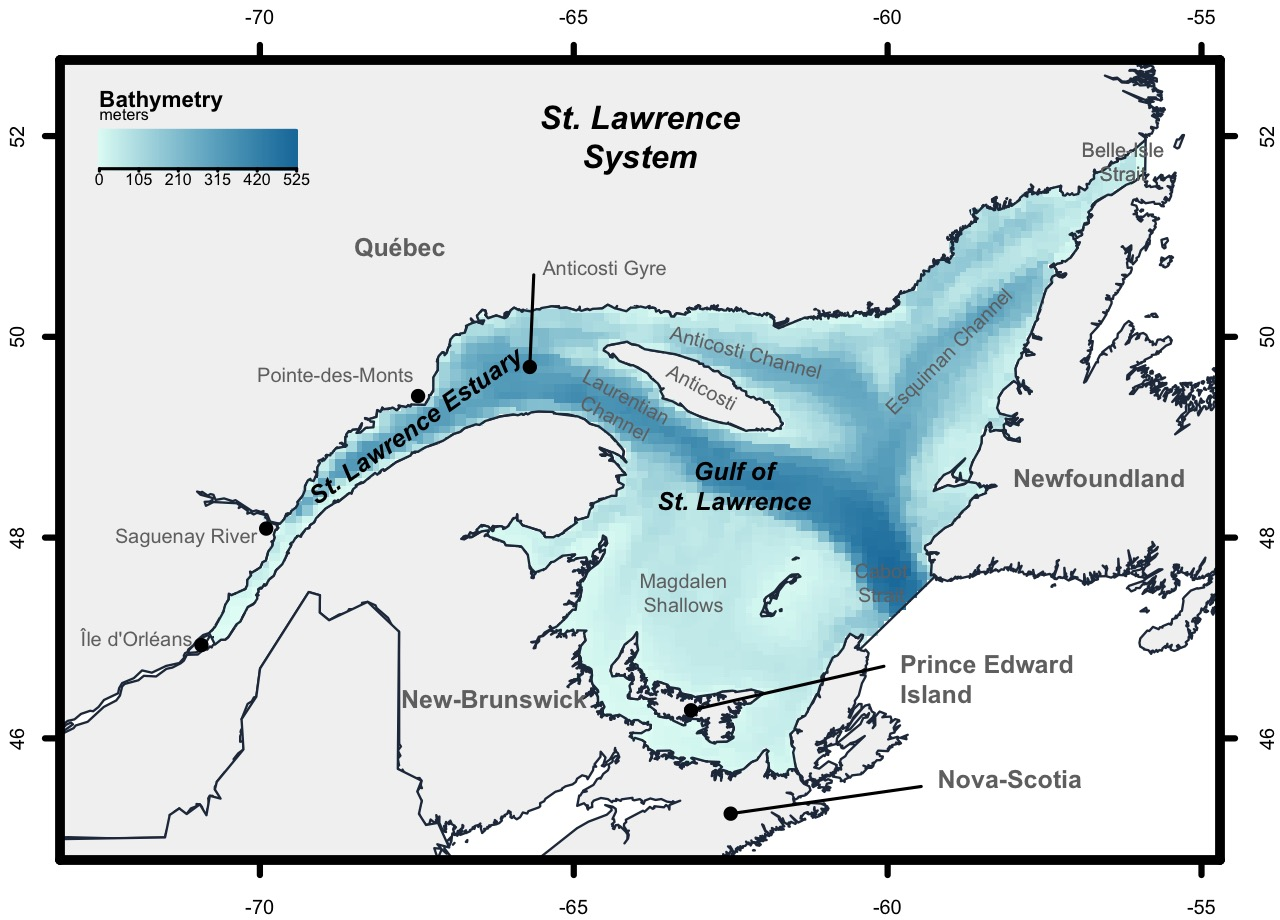
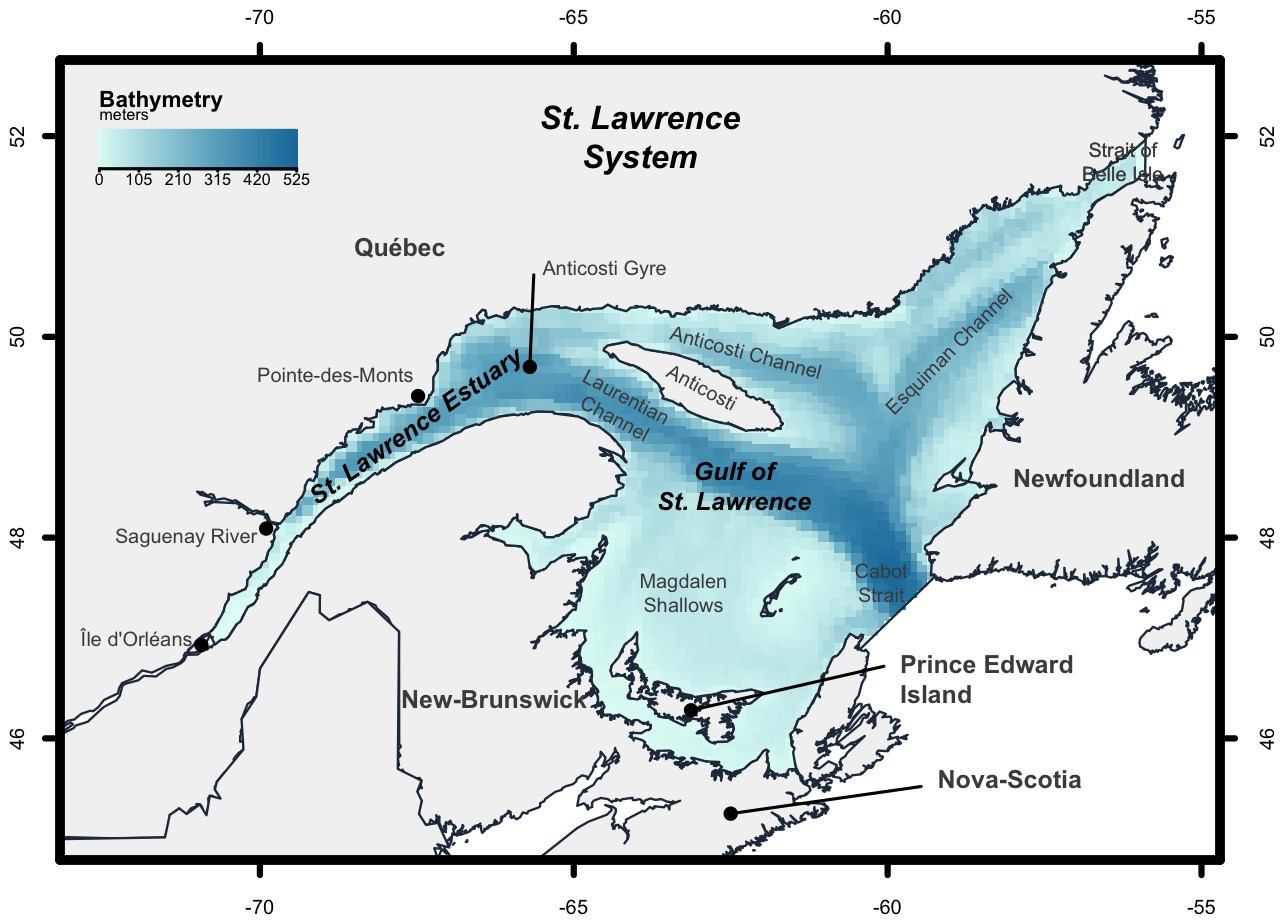
add comments from co-authors

diff --git a/Revisions2/Rebuttal.md b/Revisions2/Rebuttal.md
@@ -11,29 +11,7 @@ output:
 
 <!--
 rmarkdown::render('./Revisions2/Rebuttal.md')
-rmarkdown::render('./Revisions2/Rebuttal.md', 'word_document')
 -->
-
-<!--
-
-TODO:
-- [ ] At the end
-  - [x] Add line numbers
-  - [ ] Spell check
-  - [ ] Check references
-
-- [ ] Role of eDrivers in the analyses
-  - [x] Paragraph in eDrivers section
-  - [ ] Restructure repo and make it reproducible with eDrivers package
-  - [ ] Maybe release a version of the package so that the paper will remain reproducible in the future
-  - [ ] Write README.md to present the paper and provide links to zenodo archives
-  - [ ] Document `eDrivers`
-  - [ ] In development for `eDriversEx`
-  - [ ] Transform everything to rasters
-
-- [ ] Update bowler2019?
--->
-
 
 <!-- =-=-=-=-=-=-=-=-=-=-=-=-=-=-=-=-=-=-=-=-=-=-=-=-=-=-=-=-=-=-=-=-=-=-=-= -->
 # Letter to the editor
@@ -41,7 +19,7 @@ TODO:
 
 Dear Dr. Otto,
 
-We are submitting a revised version of the manuscript “Next Generation Planning - Structuring and Sharing Environmental Drivers Data for the St. Lawrence System” (ID: 469411) for publication in Frontiers in Marine Science. After review, we now propose the following updated title for the manuscript: "*Characterizing Exposure to and Sharing Knowledge of Drivers of Environmental Change in the St. Lawrence System*". We would like to thank the reviewer for very constructive comments. We feel that we were able to address all the comments from the second reviewer and are now submitting an improved manuscript. Below, you will find our responses to the reviewer’s comments and how we have revised our manuscript in view of these.
+We are submitting a revised version of the manuscript “Next Generation Planning - Structuring and Sharing Environmental Drivers Data for the St. Lawrence System” (ID: 469411) for publication in Frontiers in Marine Science. After review, we now propose the following updated title for the manuscript: "*Characterizing Exposure to and Sharing Knowledge of Drivers of Environmental Change in the St. Lawrence System in Canada*". We would like to thank the reviewer for very constructive comments. We feel that we were able to address all the comments from the second reviewer and are now submitting an improved manuscript. Below, you will find our responses to the reviewer’s comments and how we have revised our manuscript in view of these.
 
 We thank you for considering our revised manuscript and look forward to hearing back from you.
 
@@ -62,15 +40,15 @@ David Beauchesne
 
 *I felt the manuscript was a bit disjointed. I find myself confused whether the eDrivers platform or characterizing cumulative exposures is the star of the manuscript. The abstract and title seem to imply that eDrivers is the focus but that is not the bulk of the body of the manuscript. As a matter of fact, section 5 of the manuscript which describes the eDrivers is mostly their rationale for developing the tool and does not even adequately address how the tool was used in the analysis.*
 
-> - We thank the reviewer for pointing out this disconnect between title, abstract, and main text. Initial versions of this manuscript focused on *eDrivers*, but in the process of writing the focus shifted to characterizing cumulative exposure in the St. Lawrence, with the *eDrivers* initiative emerging from this process. This better reflects the process that led to the creation of the initiative. The title and abstract were, however, not modified accordingly. To address this we propose the following modification to the manuscript:
+> - We thank the reviewer for pointing out this disconnect between title, abstract, and main text. Initial versions of this manuscript focused on *eDrivers*, but in the process of writing the focus shifted to characterizing cumulative exposure in the St. Lawrence, with the *eDrivers* initiative emerging from this process. This better reflects the process that led to the creation of the initiative. The title and abstract were, however, not modified accordingly. To address this, we propose the following modifications to the manuscript:
 
-> 1. We propose an alternate title for the manuscript: *"Characterizing Exposure to and Sharing Knowledge of Drivers of Environmental Change in the St. Lawrence System"*.
+> 1. We propose an alternate title for the manuscript: *"Characterizing Exposure to and Sharing Knowledge of Drivers of Environmental Change in the St. Lawrence System in Canada"*.
 
-> 2. We modified the abstract to mirror the structure of the paper and introduced the *eDrivers* initiative to conclude the abstract (Lines 53 to 56).
+> 2. We modified the abstract to mirror the structure of the paper and introduced the *eDrivers* initiative to conclude the abstract (Lines 52 to 55).
 
-> 3. We modified the statement of the manuscript's objective at the end of the introduction (lines 132 to 147).
+> 3. We modified the statement of the manuscript's objective at the end of the introduction (lines 131 to 146).
 
-> - How *eDrivers* is used is not the focus of the manuscript. As such, we would prefer not to expand extensively on this particular point in the main text body. We did, however, extend and conclude the section presenting the initiative with a short paragraph stating how the package was used for the analysis. We also provide a link to the github repository for this manuscript, which includes the code to reproduce all the analyses and figures. We also contextualize the rationale behind presenting Box 1 and removed reference to Box 1 from the results section. The goal of Box 1 is to introduce how the initiative and its accompanying tools can increase the ease with which holistic analyses can be performed with a simple coded and reproducible example (lines 508 to 513).
+> - How *eDrivers* is used is not the focus of the manuscript. As such, we would prefer not to expand extensively on this particular point in the main body of the text. We did, however, extend and conclude the section presenting the initiative with a short paragraph stating how the package was used for the analysis. We also provide a link to the github repository for this manuscript, which includes the code to reproduce all the analyses and figures. We also contextualize the rationale behind presenting Box 1 and removed reference to Box 1 from the results section. The goal of Box 1 is to introduce how the initiative and its accompanying tools can increase the ease with which holistic analyses can be performed with a simple coded and reproducible example (lines 502 to 506).
 
 
 ***Comment 2:***
@@ -79,13 +57,13 @@ David Beauchesne
 
 > - The reviewer is right about terminology issues: we loosely used certain terms such as *environmental drivers* in place of *drivers of environmental change*, and duplicated the terminology for other aspects of our work, such as *cumulative exposure regimes* and *threat complexes*; this awkwardly conveys our message. As such, we agree with the reviewer's comment and modified the manuscript to clarify the terminology used throughout the manuscript.
 
-> - However, we avoided categorizing drivers of environmental change using the DPSIR framework. While the framework is widely used globally, it has numerous shortcomings (*e.g.* Gari et al. 2015, 10.1016/j.ocecoaman.2014.11.013). Namely, the difficulties in properly defining the components of the framework, the unclear classification of exogenic or natural drivers like climate change, and the context-dependencies of framework categories. For example, Dempsey et al. (2018; 10.1016/j.ecolind.2016.12.011) found it more useful to classify drivers of change as exogenic or endogenic (see Elliot et al. 2011, 10.1016/j.marpolbul.2010.11.033) because the indicators they used could be classified differently depending on the context or ecosystem in which they were studied. As an example, hypoxic environments may be considered a state if the goal is to study the impacts of climate change on ecosystems, or a pressure if the goal is to study the impacts of climate change on benthic communities. Furthermore, the DPSIR framework is used to structure initiatives that evaluate the chain of causal links between driving forces and responses (Kristensen et al. 2014, National Environmental Research Institute, Denmark). We do not do such an analysis; we rather focus on the exposure of natural systems to drivers, intentionally omitting valued components and their responses (see answers to reviewer 1). We do not dispute the usefulness of the DPSIR framework; it has provided clarity and guidance for many case studies both in terrestrial and marine ecosystems, and could be used with the data-based indicators that we provide through the *eDrivers* initiative. We simply wish to avoid generating further confusion by articulating our work around a specific framework, or forcing categories on our layers that may change depending on a user's objective. As such, we propose the following modifications to the manuscript:
+> - Nonetheless, we avoided categorizing drivers of environmental change using the DPSIR framework. While the framework is widely used globally, it has numerous shortcomings (*e.g.* Gari et al. 2015, 10.1016/j.ocecoaman.2014.11.013). Namely, the difficulties in properly defining the components of the framework, the unclear classification of exogenic or natural drivers like climate change, and the context-dependencies of framework categories. For example, Dempsey et al. (2018; 10.1016/j.ecolind.2016.12.011) found it more useful to classify drivers of change as exogenic or endogenic (see Elliot et al. 2011, 10.1016/j.marpolbul.2010.11.033) because the indicators they used could be classified differently depending on the context or ecosystem in which they were studied. For example, hypoxic environments may be considered a state if the goal is to study the impacts of climate change on ecosystems, or a pressure if the goal is to study the impacts of climate change on benthic communities. Furthermore, the DPSIR framework is used to structure initiatives that evaluate the chain of causal links between driving forces and responses (Kristensen et al. 2014, National Environmental Research Institute, Denmark). We do not do such an analysis; we rather focus on the exposure of natural systems to drivers, intentionally omitting valued components and their responses (see answers to reviewer 1). We do not dispute the usefulness of the DPSIR framework; it has provided clarity and guidance for many case studies both in terrestrial and marine ecosystems, and could be used with the data-based indicators that we provide through the *eDrivers* initiative. We simply wish to avoid generating further confusion by articulating our work around a specific framework, or forcing categories on our layers that may change depending on a user's objective. As such, we propose the following modifications to the manuscript:
 
-> 1. We modified the definition in the introduction to: "*We broadly define drivers of environmental change (hereafter drivers) as any externality that affects environmental processes and disturbs natural systems*" (lines 84 to 87).
+> 1. We modified the definition in the introduction to: "*We broadly define drivers of environmental change (hereafter, drivers) as any externality that affects environmental processes and disturbs natural systems*" (lines 85 to 86).
 
-> 2. We added a paragraph at the beginning of the drivers section (3.1) providing more details on how the drivers of change we are providing are data-based indicators that may be viewed as drivers, pressures, stressors, or states depending on the context and objective: "*Drivers, as broadly defined in this study, are data-based indicators of environmental conditions and human activities that are often referred to as driving forces, stressors, pressures or states in the scientific and environmental assessment litterature (e.g. Kristensen, 2004; Halpern et al., 2019). Defining such categories, however, can be difficult and is often context- and ecosystem-specific (Gari et al., 2015; Dempsey et al., 2018). As such, we refrain from articulating our work around a specific framework or imposing categories on data-based products that may change with a user's objective. We rather focus on available data-based indicators that contribute to evaluating an ecosystem's cumulative exposure to multiple threats*" (lines 177 to 185).
+> 2. We added a paragraph at the beginning of the drivers section (3.1) to provide more details on how the drivers of change we identify are data-based indicators that may be viewed as drivers, pressures, stressors, or states depending on the context and objective: "*Drivers, as broadly defined in this study, are data-based indicators of environmental conditions and human activities that are often referred to as driving forces, stressors, pressures, or states in the scientific and environmental assessment litterature (e.g. Kristensen, 2004; Halpern et al., 2019). Defining such categories, however, can be difficult and is often context- and ecosystem-specific (Gari et al., 2015; Dempsey et al., 2018). As such, we refrain from articulating our work around a specific framework or imposing categories on data-based products that may change with a user's objective. Instead, we focus on available data-based indicators that contribute to evaluate an ecosystem's cumulative exposure to multiple threats*" (lines 174 to 182).
 
-> 3. We concluded the perspective paragraph presenting valued components by stating that interdisciplinary collections of knowledge could be used in a DPSIR framework to help in establishing causal relationship between drivers and valued ecosystem components: "*In turn, these could be used in conceptual frameworks that help in establishing causal relationships between drivers and valued ecosystem components such as the DPSIR (Driving forces -- Pressure -- State -- Impact -- Response) framework (Kristensen, 2004; Gari et al., 2015). Through such a framework, the data-based indicators provided through eDrivers could be categorized as driving forces, pressures or states, depending on the objective and context of a study*" lines 561 to 566).
+> 3. We concluded the perspective paragraph presenting valued components by stating that interdisciplinary collections of knowledge could be used in a DPSIR framework to help establish causal relationships between drivers and valued ecosystem components: "*In turn, these could be used in conceptual frameworks that help to establish causal relationships between drivers and valued ecosystem components such as the DPSIR (Driving forces -- Pressure -- State -- Impact -- Response) framework (Kristensen, 2004; Gari et al., 2015). Within such a framework, the data-based indicators provided through eDrivers could be categorized as driving forces, pressures or states, depending on the objective and context of a study*" lines 554 to 559).
 
 > 4. We modified all instances of *environmental drivers* for *drivers of environmental change*
 
@@ -113,29 +91,29 @@ David Beauchesne
 
 *Line 73 - How does the intensifying human footprint result in increasingly intricate environmental exposure regimes? I think this is confusing when you claim anthropogenic drivers as environmental drivers.*
 
-> - We mean that the expanding and intensifying human footprint results in drivers of change increasingly overlapping at higher intensities, which in turns creates more intricate exposure regimes. We modified the terminology used throughout the manuscript and do not refer to drivers as "environmental drivers" anymore. We rather use the expression "drivers of environmental change" (see answer to question 2 for more details). We also simplified this sentence to: *As a result, the St. Lawrence System is exposed to an increasing number of drivers of environmental change, as is observed across ecosystems globally (see Halpern et al., 2015b; Halpern et al., 2019)* (lines 79 to 84).
+> - We mean that the expanding and intensifying human footprint results in drivers of change increasingly overlapping at higher intensities, which in turn creates more intricate exposure regimes. We modified the terminology used throughout the manuscript and do not refer to drivers as "environmental drivers" anymore. Instead, we use the expression "drivers of environmental change" (see answer to question 2 for more details). We also simplified this sentence to: *Consequently, the St. Lawrence System is exposed to an increasing number of drivers of environmental change, as is observed across ecosystems globally (see Halpern et al., 2015b; Halpern et al., 2019)* (lines 80 to 86).
 
 
 
 *Line 97 - The sentence “Describing drivers will therefore provide critical information on areas most exposed to drivers in the St. Lawrence.” does not make sense. Please clarify what you mean.*
 
-> - We modified this sentence by: *While co-occurring drivers may not interact, driver co-occurrence is a requirement for interactions to exist. Knowledge of their co-distribution can therefore identify areas where driver interactions are most likely observed.* (lines 104 to 107).
+> - We modified this sentence to: *Whereas co-occurring drivers may not interact, driver co-occurrence is a requirement for interactions to exist. Knowledge of their co-distribution can therefore identify areas where driver interactions are most likely observed.* (lines 103 to 105).
 
 
 *Line 124 - You never state an initial goal prior to this statement.*
 
-> - We modified the statement of the objectives to address this issue (lines 132 to 147). See answer to question 2 for more details.
+> - We modified the statement of the objectives to address this issue (lines 134 to 146). See answer to question 2 for more details.
 
 
 *Line 128 - Should your goal be to characterize the distribution and intensity of drivers with two objectives as stated starting on line 129?*
 
-> - We now state: *Our main goal in this study is to characterize the distribution and intensity of drivers in the St. Lawrence. More specifically, our objectives are to: 1) identify areas of high cumulative exposure to drivers and 2) characterize areas with similar cumulative exposure profiles, i.e. areas exposed to similar suites of co-occurring drivers* (lines 135 to 138).
+> - We agree and we now state: *The main goal of this study is to characterize the distribution and intensity of drivers in the St. Lawrence System. More specifically, our objectives are to: 1) identify areas of high cumulative exposure to drivers and 2) characterize areas with similar cumulative exposure profiles, i.e. areas exposed to similar suites of co-occurring drivers* (lines 134 to 138).
 
 
 
 *Line 131 - Are cumulative exposure regimes the same as threat complexes described later in the manuscript?*
 
-> - See answer to question 2.
+> - We removed all mentions of threat complexes and cumulative exposure regimes in favour of cumulative exposure profiles (see answer to question 2).
 
 
 *Section 3 - No mention of eDrivers or it’s role in the analysis.*
@@ -145,7 +123,7 @@ David Beauchesne
 
 *Line 142 - I’m not familiar with the St. Lawrence system. Is it simply called the Estuary or the Estuary of the St. Lawrence? I see it listed as Estuary on the map but there is no label for the Gulf of St. Lawrence.*
 
-> - The proper names are the St. Lawrence Estuary and the Gulf of St. Lawrence. We modified the methods section title and text (line 150) and adjusted the map accordingly (see updated Figure 1).
+> - The proper names are the St. Lawrence Estuary and the Gulf of St. Lawrence. We modified the methods section title and text (line 148) and adjusted the map accordingly (see updated Figure 1).
 
 
 *Line 172 - Is the reference Halpern et al. 2015 a or b?*
@@ -154,13 +132,13 @@ David Beauchesne
 
 *Line 177 - The sentence “We selected global data . . . ” feels like it needs more context. Are you saying all drivers in Table 1 were unavailable at the regional scale?*
 
-> - We mean that we used global datasets with sufficient resolution in instances where regional data on drivers were not available. We modified the text to clarify this: *"Where regional data on drivers were unavailable, available global data at a resolution adequate for the scale of the St. Lawrence System were used instead (*e.g.* marine pollution)"* (lines 190 to 194).
+> - We mean that we used global datasets with sufficient resolution in instances where regional data on drivers were not available. We modified the text to clarify this: *"Where regional data on drivers were unavailable, available global data at a resolution adequate for the scale of the St. Lawrence System were used instead (*e.g.* marine pollution)"* (lines 189 to 191).
 
 *Line 192 - The figure of the hexagonal cells seems integral to the analysis and should be included in the main manuscript. Actually as I write this, I realize that the sentence reads 245k of 1 km2 hexagonal cells. My original reading was of much larger size cells. Perhaps rewording to say that the system was divided into a regular grid of 1 km2 hexagonal cells is sufficient. Also just an FYI that the hex cells are not shown in figure S2.*
 
-> - We modified the text accordingly: *"The St. Lawrence System was divided into a regular grid of 1 $km^2$ cells in which all drivers were integrated (Figure S2)"* (lines 209 to 212).
+> - We modified the text accordingly: *"The St. Lawrence System was divided into a regular grid of 1 $km^2$ cells in which all drivers were integrated (Figure S2)"* (lines 207 to 209).
 
-> - As for the cells on figure S2, they are invisible due to the scale of the system. Showing cell borders hides fill colors, especially with so many maps shown on a single figure. We doubt whether it would be relevant to the manuscript, but, if requested, we could provide a finer scale view of the system and show the grid. Incidentally, we have since modified our grid for a grid with square cells, which allows us to work with rasters rather than vectorized polygons, which is more computationally efficient.
+> - As for the cells on figure S2, they are invisible due to the scale of the system. Showing cell borders hides fill colors, especially with so many maps shown on a single figure. We doubt whether it would be relevant to the manuscript, but, if requested, we could provide a finer scale view of the system and show the grid. Incidentally, we have since modified our grid for a grid with square cells, which allows us to work with rasters rather than vectorized polygons, which is more efficient computationally.
 
 
 *Section 3.3 - I fail to see what this section and subsequent results add to the study.*
@@ -169,7 +147,7 @@ David Beauchesne
 
 *Line 206 - I was confused by what objective 1 was and hence my comment on Line 128.*
 
-> - We agree with this comment and have adjusted the statement of the objectives in the introduction accordingly (lines 135 to 138). Specific references to objectives in the text should now be clear.
+> - We agree with this comment and have adjusted the statement of the objectives in the introduction accordingly (lines 134 to 138). Specific references to objectives in the text should now be clear.
 
 
 *Line 226 - Don’t use different terms in different parts of the manuscript as that makes it difficult for the reader to follow.*
@@ -199,12 +177,12 @@ David Beauchesne
 
 *Section 5.2 - Is this a principle of principles?*
 
-> - We are adopting a preexisting and unified set of principles dubbed as the FAIR Data Principles as one of our guiding principles. As this can indeed be confusing, we now state that we adopt the unified FAIR Data Principles as a set of subprinciples guiding our initiative (lines 463 to 465).
+> - We are adopting a preexisting and unified set of principles, dubbed the FAIR Data Principles, as one of our guiding principles. As this can be confusing, we now state that we adopt the unified FAIR Data Principles as a set of subprinciples guiding our initiative (lines 457 to 458).
 
 
 *Figure 1 - The figure and caption should be stand alone from the manuscript so it would be helpful to add contextual information presented in the text.*
 
-> - We modified Figure 1 to show that the map presents the St. Lawrence and to clearly identify the Gulf of St. Lawrence and St. Lawrence Estuary. We also modified Figure 1's caption to provide a brief description of the Estuary and Gulf (see updated Figure 1 and accompanying caption).
+> - We modified Figure 1 to show that the map presents the St. Lawrence System and to clearly identify the Gulf of St. Lawrence and St. Lawrence Estuary. We also modified Figure 1's caption to provide a brief description of the Estuary and Gulf (see updated Figure 1 and accompanying caption).
 
 
 *Figure 6 - What do you mean by night lights in the caption? Also, what do the dots mean? You can also make the diagram specific with the R packages and shiny app to which you are referring.*
@@ -220,9 +198,9 @@ David Beauchesne
 
 > - The Lat/long resolution are either sampling coordinates or activity coordinates such as aquaculture or fishing. We modified "Lat/long" for "Lat/Lon" in the table.
 
-> - Dissemination areas are the smallest standard geographic area in which census data, *i.e.* population count, are disseminated and they combine to cover all of Canada and their size and shape is highly variable. For example, their sizes range from 0.0003 to over 44000 $km^2$ in our study area. We modified the table to include this range by stating "Variable: < 1 to > 40000 $km^2$" and included this information in the Supplementary Material. We also indicated that methods and details for each driver are available in the supplementary materials.
+> - Dissemination areas are the smallest standard geographic area in which census data, *i.e.* population count, are disseminated and they combine to cover all of Canada and their size and shape is highly variable. For example, their sizes range from 0.0003 to over 44000 $km^2$ in our study area. We modified the table to include this range by stating "Variable: < 1 to > 40000 $km^2$" and included this information in the Supplementary Material. We also indicated that methods and details for each driver are available in the supplementary materials in the table caption.
 
-> - The years 1981 to 2010 is the climatology used as a reference and 2013-2017 is the current period. We modified the table to clarify this by stating: "Climatology: 1980-2010; Current: 2013-2017"
+> - The years 1981 to 2010 form the climatology used as a reference and 2013-2017 is the current period. We modified the table to clarify this by stating: "Climatology: 1980-2010; Current: 2013-2017"
 
 > - We corrected the word "positive", thank you for identifying the error.
 
@@ -245,14 +223,12 @@ David Beauchesne
 
 ***Answer:***
 
-> - In sections 3.3 and 4.1, we illustrated how a simple 2-driver case could be used to identify areas of such high relative intensity driver overlap. These sections provide an example that demonstrates how driver co-occurrence is evaluated; it should serve as a stepping stone to the integrative exposure indicators that we use after. As such, we believe that they offer valuable support in interpreting our results. However, we agree with the reviewer that these sections appear superfluous. We therefore modified the manuscript to better introduce this example:
+> - In sections 3.3 and 4.1, we illustrated how a simple 2-driver case could be used to identify areas of such high relative intensity driver overlap. These sections provide an example that demonstrates how driver co-occurrence is evaluated; it should serve as a stepping stone to the integrative exposure indicators that we use after. As such, we believe that they offer valuable support in interpreting our results. Nevertheless, we agree with the reviewer that these sections needed to be better contextualized to showcase their relevance. We therefore modified the manuscript to better introduce this example:
 
-> 1. We removed sections 3.3 and 4.1 and incorporated the example in the section on cumulative exposure (lines 221 to 225 and lines 310 to 318).
+> 1. We removed sections 3.3 and 4.1 and incorporated the example in the section on cumulative exposures (lines 218 to 225 and lines 305 to 313).
 
-> 2. We now clearly state that this is an example provided for better clarity and that it serves as a stepping stone to the integrative indicators of exposure (lines 227 to 229).
+> 2. We now state that this is an example provided to better illustrate how we evaluate exposure from multiple drivers and that it serves as a stepping stone to the integrative indicators of exposure (lines 223 to 225).
 
 > 3. We removed the discussion on species-specific responses to hypoxia and fisheries. We intentionally avoid discussing valued components throughout the manuscript to focus specifically on drivers. Discussing species responses in presenting the simplified example undoubtedly contributed to the example feeling out of place.
 
 > 4. We modified the figure caption to state that it is a simplified example.
-
-> - Although we believe that the example is valuable, it does not address a specific objective, as rightfully identified by the reviewer. As such, if the reviewer still feels that the proposed changes are insufficient, we are willing to remove it entirely from the manuscript.
